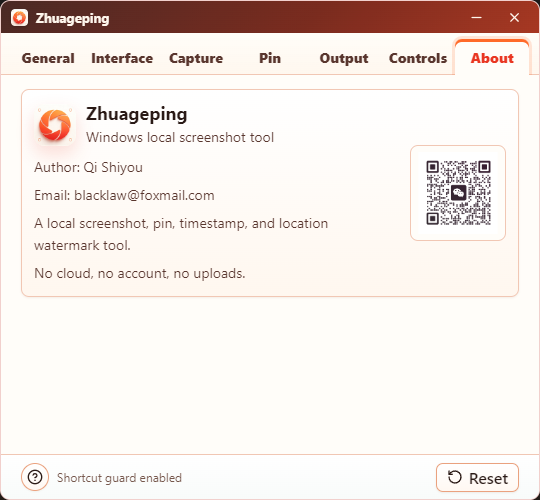
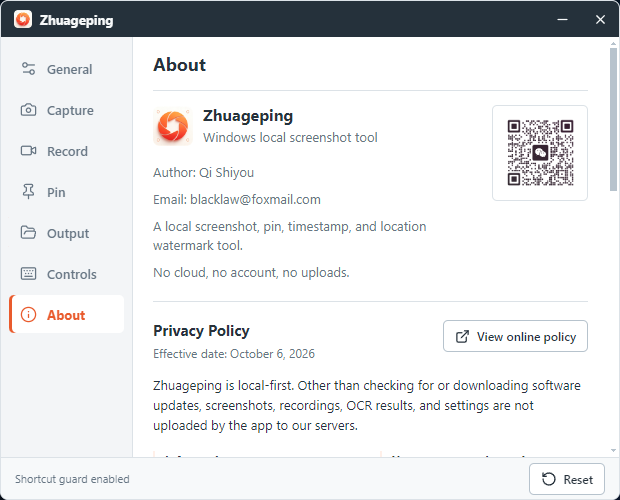
Refresh README screenshots

diff --git a/README.md b/README.md
@@ -91,11 +91,11 @@ Highlights in `v0.1.20`:
   </tr>
   <tr>
     <td width="50%"><img src="docs/readme-assets/preferences-about.png" alt="About page with author information and QR code" /></td>
-    <td width="50%"><img src="docs/readme-assets/capture-editor-toolbar.png" alt="In-place screenshot editor with annotation toolbar" /></td>
+    <td width="50%"><img src="docs/readme-assets/preferences-record.png" alt="Recording preferences with display and quality settings" /></td>
   </tr>
   <tr>
     <td align="center"><strong>About</strong></td>
-    <td align="center"><strong>In-place capture editor</strong></td>
+    <td align="center"><strong>Recording settings</strong></td>
   </tr>
 </table>
 
